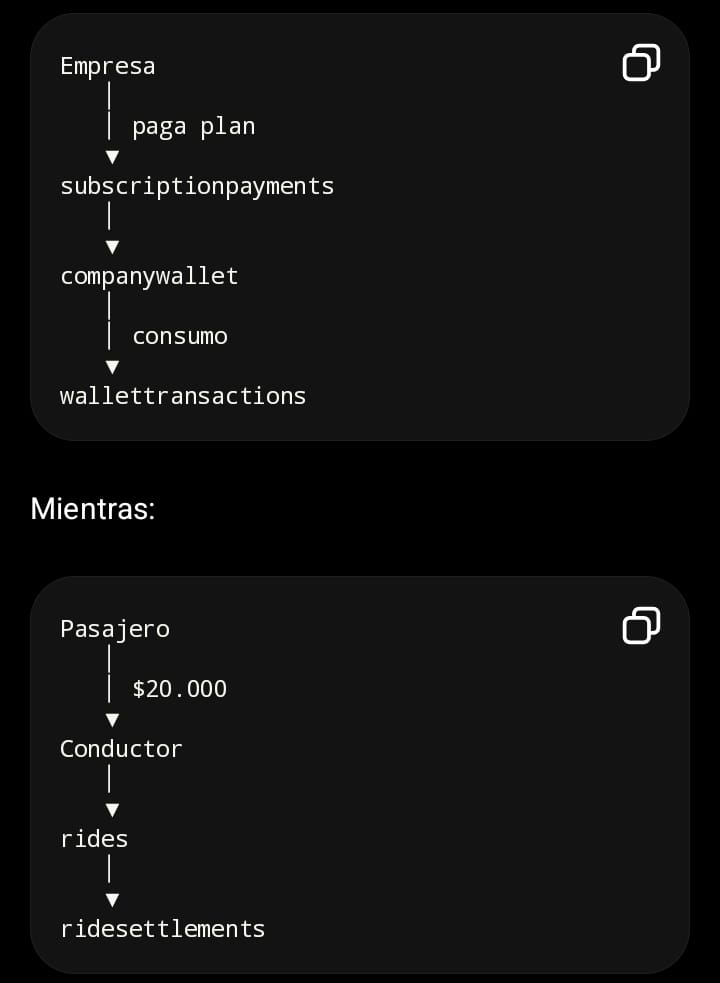
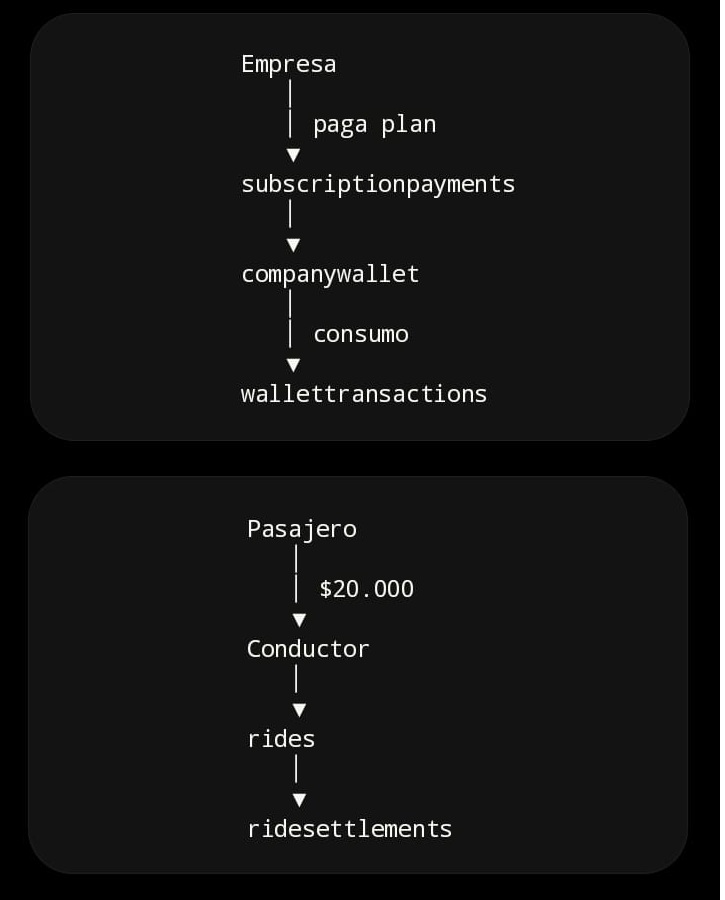
Tarifas: actualiza imagen de dos flujos contables

diff --git a/tarifas-y-pagos.html b/tarifas-y-pagos.html
@@ -576,7 +576,7 @@
         <p data-i18n="payments.s4_p2">El pasajero paga directamente al operativo. La empresa define o recibe una participación sobre el valor del viaje. P2L ya monetiza su servicio con el plan y el saldo prepago de la empresa: no cobra de nuevo en el momento del viaje.</p>
         <p data-i18n="payments.s4_ledger_lead">Hay dos flujos contables en paralelo. Uno es el consumo del plan de la empresa registrada. El otro es el pago del usuario al conductor, que P2L solo registra.</p>
         <figure class="flow-card flow-card--compact">
-          <img src="assets/flujos-contables-p2l.png?v=20260818b" alt="Dos flujos contables: consumo del plan y pago del viaje" data-i18n-aria="payments.s4_ledger_img_alt" />
+          <img src="assets/flujos-contables-p2l.png?v=20260818c" alt="Dos flujos contables: consumo del plan y pago del viaje" data-i18n-aria="payments.s4_ledger_img_alt" />
           <figcaption data-i18n="payments.s4_ledger_img_caption">P2L no calcula una comisión sobre el valor del viaje. Monetiza con plan y prepago. El dinero del pasajero va al conductor; la empresa recibe su participación fuera de P2L.</figcaption>
         </figure>
         <p data-i18n="payments.s4_ledger_company">La empresa registrada no cobra el viaje a través de P2L. Recibe su 20% del conductor, según las reglas de la operación. El plan habilita la infraestructura; el viaje se liquida entre las partes.</p>
